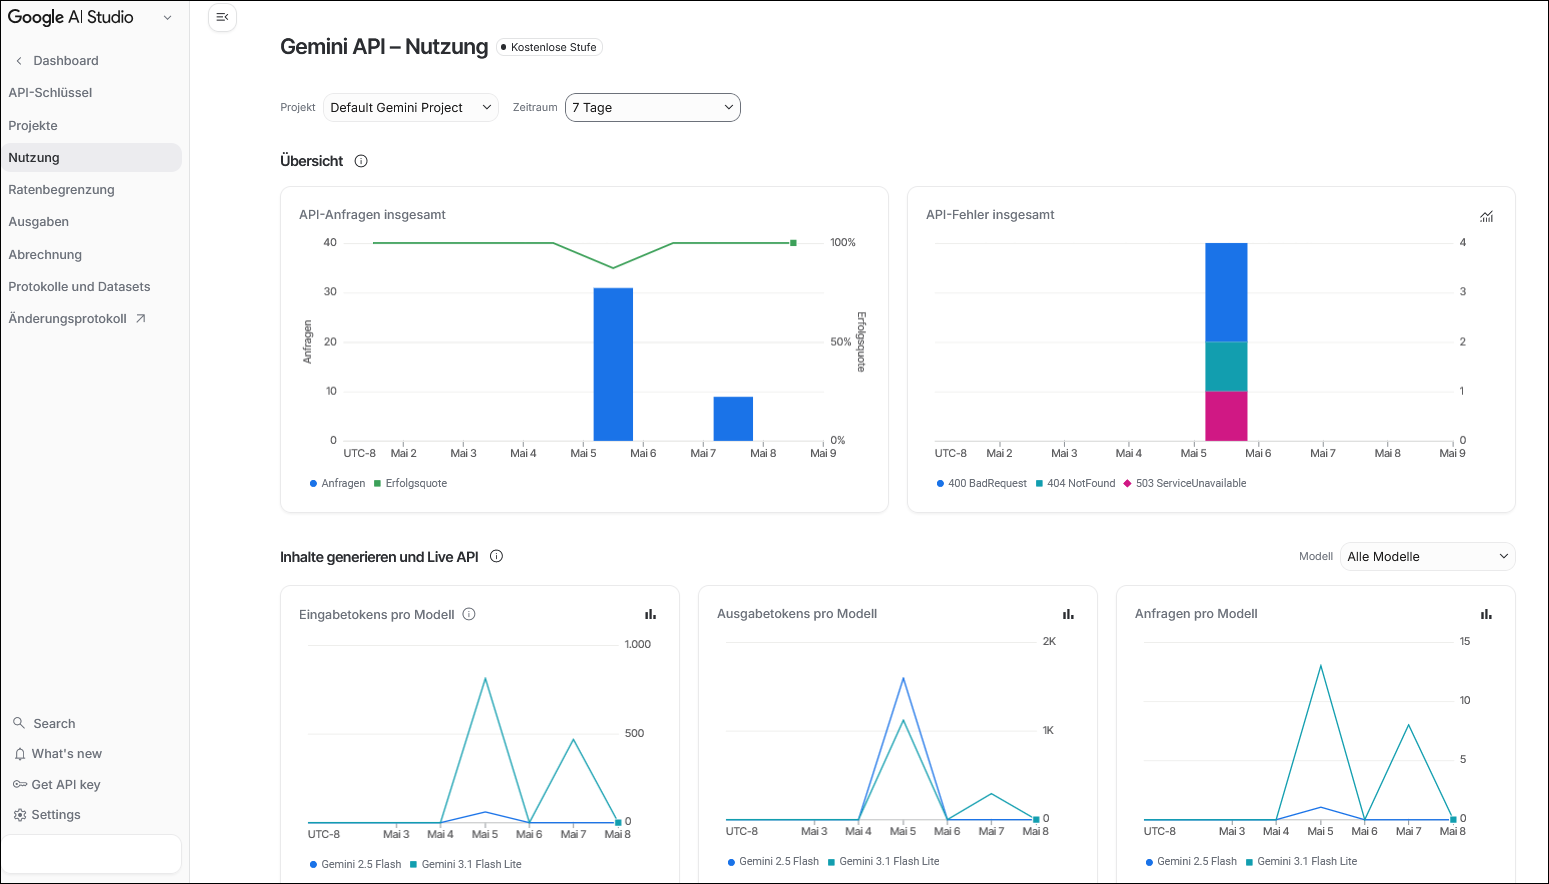
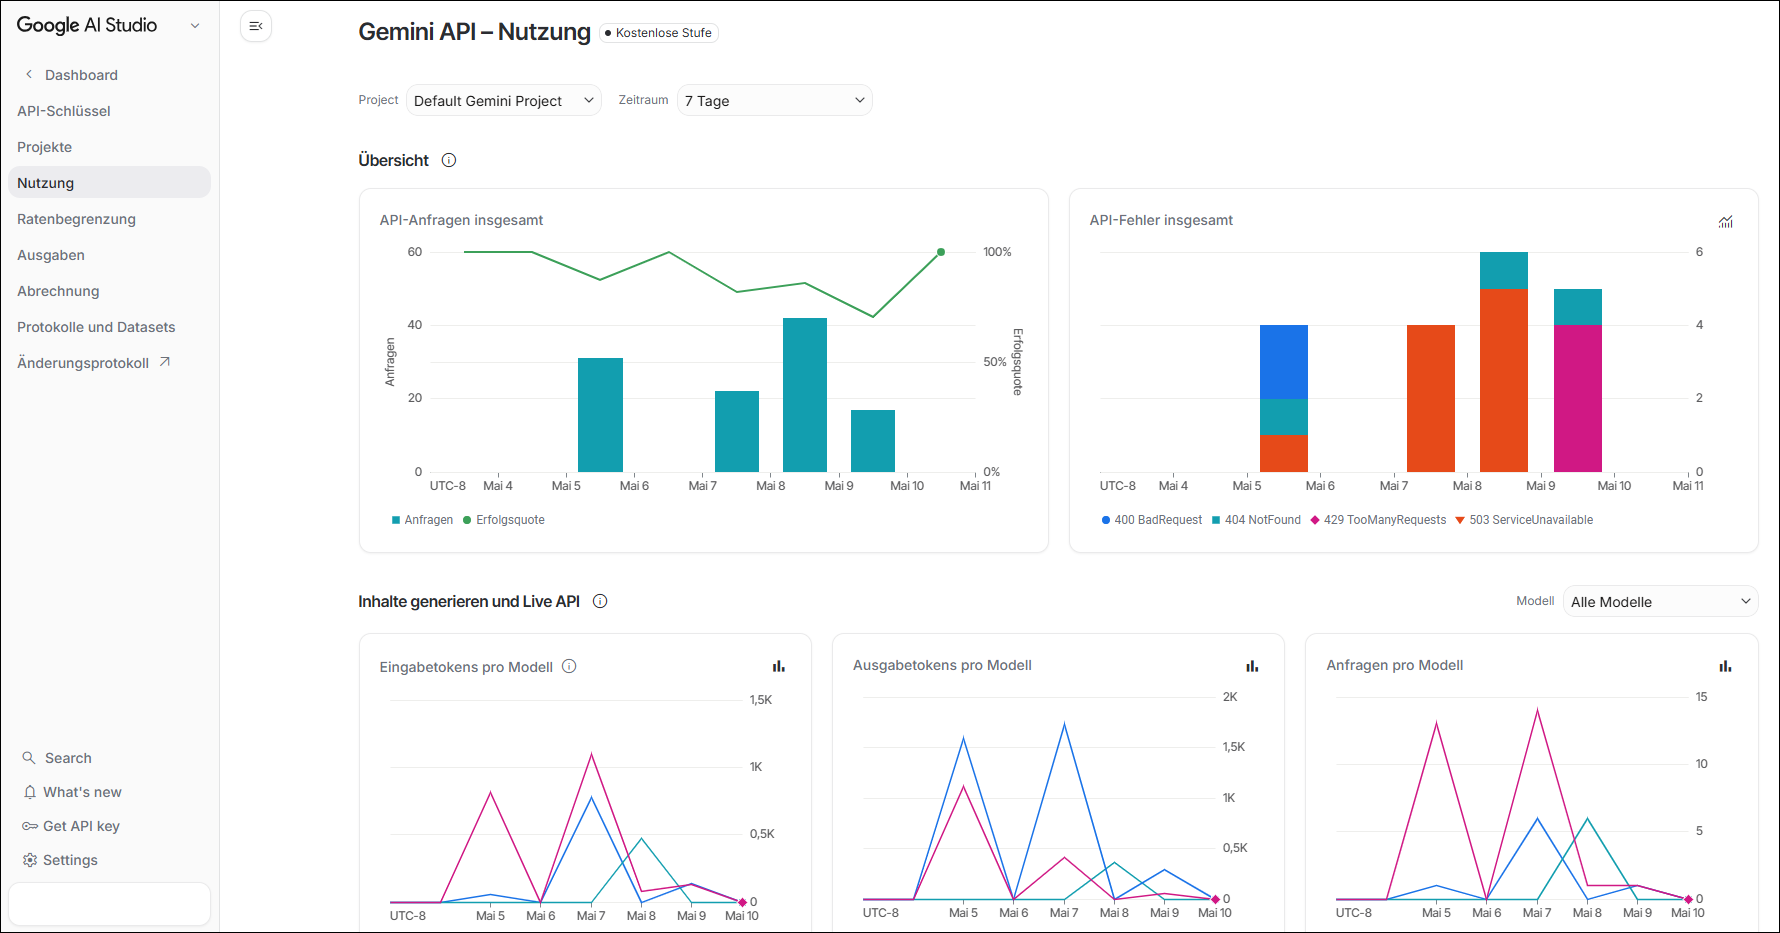
README: Screenshots verbessert

diff --git a/README.md b/README.md
@@ -14,7 +14,6 @@
 **Referenzen:**
 
 * https://aistudio.google.com/
-* https://aistudio.google.com/usage?timeRange=last-28-days
 * https://ai.google.dev/gemini-api/docs/pricing?hl=de
 
 <br>
@@ -55,10 +54,24 @@ ausgelesen werden kann.
 
 ----
 
-## Screenshots ##
+## Usage überwachen ##
 
 <br>
 
+https://aistudio.google.com/usage?timeRange=last-7-days
 ![Screenshot: Usage Stats in AI Studio](screenshot_1_UsageStats.png)
+
+<br>
+
+https://aistudio.google.com/rate-limit
+![Screenshot: Rate Limis in AI Studio](screenshot_2_RateLimit.png)
+Die mit dem grünen Rechteck markierten Modelle haben für alle Metriken hinter dem Schrägstrich
+einen Wert größer 0, sind also im gebuchten Tarif (z.B. kostenloser Tarif) enthalten.
+Entsprechend sind Modelle mit "0 / 0" nicht im gebuchten Tarif enthalten.
+
+**Metriken:**
+* RPM: Requests per Minute
+* TPM: Input Tokens per Minute
+* RDP: Requests per Day 
 
 <br>
